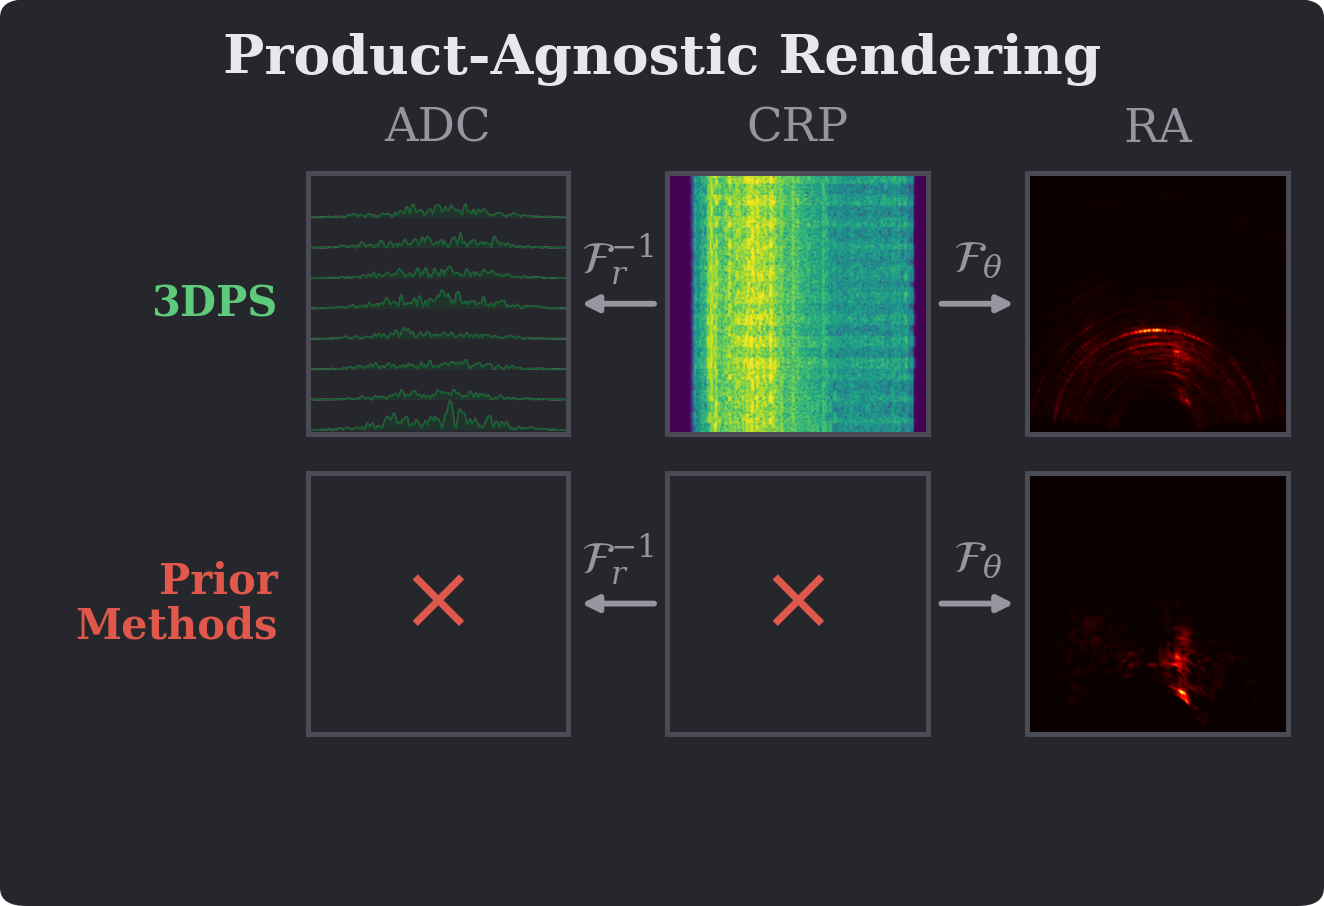
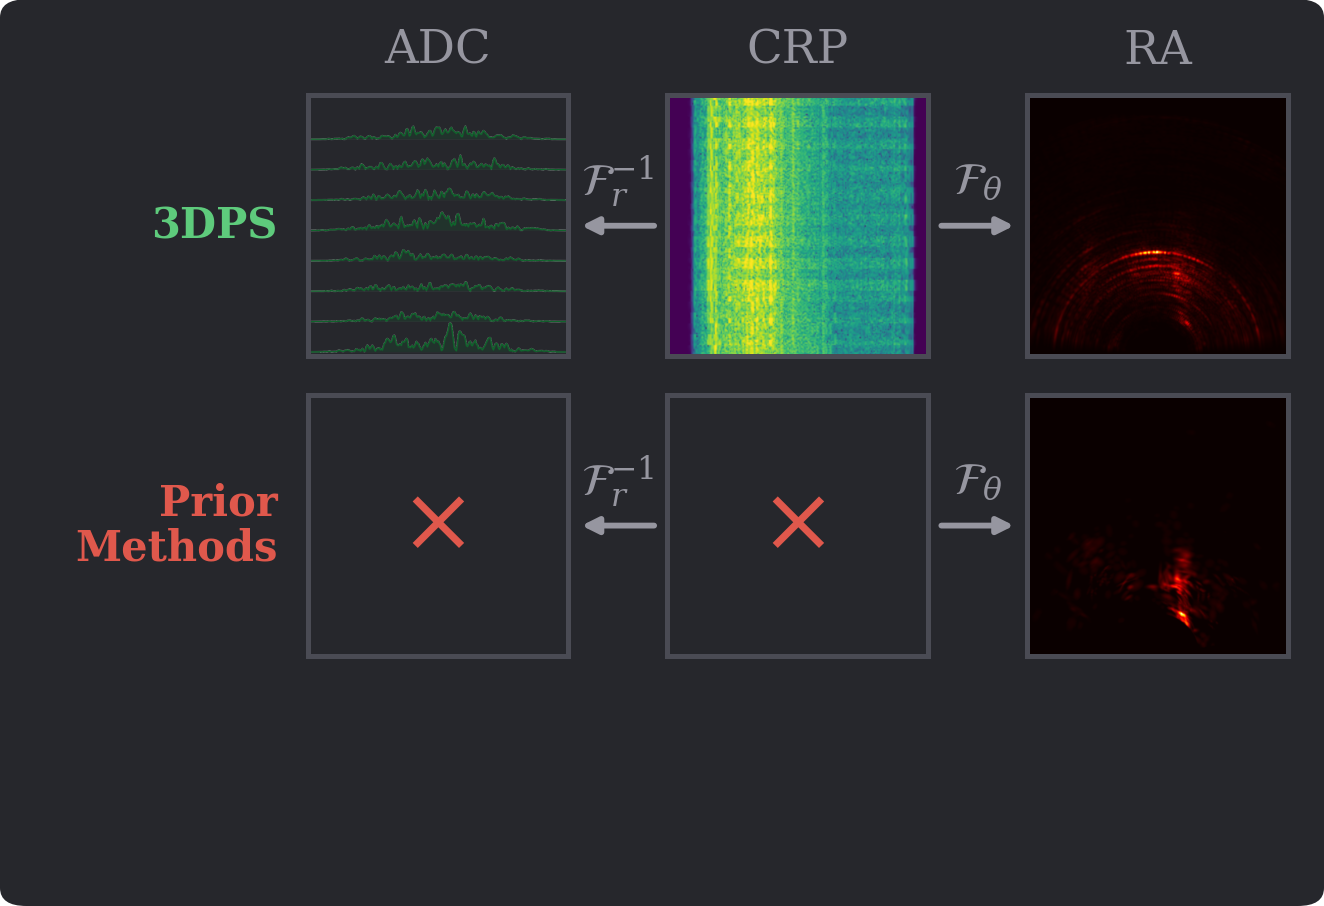
teaser act 2: plot takes the right half, applications the left, bigger figures
1. In act 2 the plot card becomes half the width and centres vertically:
   486 x 355 at x 504..989, aspect 1.37 -- exactly the plot content's
   aspect, so the extra size goes to the plot and not to margin.

2. The 2 x 2 takes the left half (x 11..495, no overlap).

   - Panel titles are live HTML above each tile now, not baked into the
     art. All four panels were regenerated or re-cropped without them,
     and the reclaimed band goes to the figure.
   - Material and normals were sitting inside a 4% pad in a tile whose
     box aspect did not match the cloud, which is where the side margin
     came from. The axes now take 94% x 93% of the panel and the cloud
     fills at 0.90 rather than 1.04.
   - app_nvs is cropped 0.22in lower so the teaser's own column header
     comes off (head_y = top - 0.06, body_top = head_y - 0.16, column
     inset 0.04).
   - The two-tone look was a second card: each .t-app had its own
     background and border BEHIND a panel PNG that already carries one.
     The .t-app card is gone. In dark the panel's #26272c is exactly the
     stage colour, so the tile edge now comes from a hairline plus a
     shadow rather than a different fill -- which also keeps all four
     consistent, since app_nvs is cropped from the paper teaser and
     cannot be re-tinted.

Measured after load: card 486x355 aspect 1.37, vertically centred, apps
11..495, no overlap.

diff --git a/index.html b/index.html
@@ -240,6 +240,9 @@
       gap: var(--t-dock-gap); pointer-events: none;
       transition: opacity .6s ease; z-index: 4; }
     #teaser-anim.apps .t-dock { opacity: 0; }
+    #teaser-anim.apps .t-pareto { width: calc(50% - 1.5 * var(--t-pad));
+      aspect-ratio: 1.37; height: auto; top: 0; bottom: 0; margin-block: auto;
+      max-height: calc(100% - 2 * var(--t-pad)); }
     #teaser-anim .t-slot { margin: 0; --c: var(--t-red); height: 100%; min-height: 0;
                            display: flex; align-items: center; }
     #teaser-anim .t-slot[data-fam="pts"] { --c: var(--t-green); }
@@ -265,7 +268,7 @@
                   border-radius 1s ease, border-width .5s ease; }
     #teaser-anim .t-fly img { width: 100%; height: 100%; object-fit: cover; display: block; }
     #teaser-anim .t-apps { position: absolute; left: var(--t-pad); top: var(--t-pad); bottom: var(--t-pad);
-      right: calc(var(--t-card-w) + 2 * var(--t-pad)); display: grid; z-index: 5;
+      right: calc(50% + 0.5 * var(--t-pad)); display: grid; z-index: 5;
       grid-template-columns: repeat(2, minmax(0, 1fr));
       grid-template-rows: auto repeat(2, minmax(0, 1fr));
       gap: 2.2%; pointer-events: none; }
@@ -275,10 +278,25 @@
       opacity: 0; transform: translateY(8px);
       transition: opacity .5s ease, transform .5s ease; }
     #teaser-anim.apps .t-apps-head { opacity: 1; transform: none; }
-    #teaser-anim .t-app { margin: 0; min-height: 0; display: flex; align-items: center; justify-content: center;
-      opacity: 0; transform: translateY(12px); border-radius: 10px; padding: 1.6%;
-      background: var(--t-card); border: 1px solid var(--t-card-line);
+    #teaser-anim .t-app { margin: 0; min-height: 0; display: flex; flex-direction: column;
+      align-items: center; justify-content: flex-start;
+      opacity: 0; transform: translateY(12px);
       transition: opacity .55s ease, transform .55s ease; }
+    #teaser-anim .t-app figcaption { flex: 0 0 auto; margin: 0 0 1.5%; text-align: center;
+      line-height: 1.12; color: var(--fg);
+      font-family: "Times New Roman", Times, Georgia, serif; font-weight: 700;
+      font-size: clamp(.56rem, 1.05vw, .92rem); }
+    /* bounded by BOTH axes rather than stretched by flex: the panel keeps
+       its own aspect and takes whichever limit binds */
+    /* ONE fill per tile -- the panel's own, baked into the PNG. A second
+       card behind it was the two-tone look. In dark the panel's #26272c
+       equals the stage, so the edge comes from a hairline and a shadow
+       rather than a different fill, which also keeps the four consistent
+       (app_nvs is cropped from the paper teaser and cannot be re-tinted). */
+    #teaser-anim .t-app img { min-height: 0; max-width: 100%; max-height: 100%;
+      width: auto; height: auto; object-fit: contain; border-radius: 9px;
+      border: 1px solid var(--t-card-line);
+      box-shadow: 0 2px 12px rgba(0, 0, 0, .18); }
     #teaser-anim .t-app.on { opacity: 1; transform: none; }
     #teaser-anim .t-app img { max-width: 100%; max-height: 100%; width: auto; height: auto; display: block; }
     #teaser-anim .t-still { display: none; }
@@ -417,18 +435,18 @@
         </div>
         <div class="t-apps" id="t-apps">
         <p class="t-apps-head">Applications</p>
-        <figure class="t-app"><img class="themed"
-          data-light="./static/teaser/light/app_rendering.png?v=2" data-dark="./static/teaser/dark/app_rendering.png?v=2"
-          src="./static/teaser/light/app_rendering.png?v=2" alt="Product-agnostic rendering: ADC, CRP and RA from one fitted scene."></figure>
-        <figure class="t-app"><img class="themed"
-          data-light="./static/teaser/light/app_material.png?v=2" data-dark="./static/teaser/dark/app_material.png?v=2"
-          src="./static/teaser/light/app_material.png?v=2" alt="Material reconstruction: per-point relative permittivity."></figure>
-        <figure class="t-app"><img class="themed"
-          data-light="./static/teaser/light/app_normals.png?v=2" data-dark="./static/teaser/dark/app_normals.png?v=2"
-          src="./static/teaser/light/app_normals.png?v=2" alt="Normal estimation: per-point surface normals."></figure>
-        <figure class="t-app"><img class="themed"
-          data-light="./static/teaser/light/app_nvs.png?v=2" data-dark="./static/teaser/dark/app_nvs.png?v=2"
-          src="./static/teaser/light/app_nvs.png?v=2" alt="Novel view synthesis on held-out frames."></figure>
+        <figure class="t-app"><figcaption>Product-Agnostic Rendering</figcaption><img class="themed"
+          data-light="./static/teaser/light/app_rendering.png?v=3" data-dark="./static/teaser/dark/app_rendering.png?v=3"
+          src="./static/teaser/light/app_rendering.png?v=3" alt="Product-agnostic rendering: ADC, CRP and RA from one fitted scene."></figure>
+        <figure class="t-app"><figcaption>Material Reconstruction</figcaption><img class="themed"
+          data-light="./static/teaser/light/app_material.png?v=3" data-dark="./static/teaser/dark/app_material.png?v=3"
+          src="./static/teaser/light/app_material.png?v=3" alt="Material reconstruction: per-point relative permittivity."></figure>
+        <figure class="t-app"><figcaption>Normal Estimation</figcaption><img class="themed"
+          data-light="./static/teaser/light/app_normals.png?v=3" data-dark="./static/teaser/dark/app_normals.png?v=3"
+          src="./static/teaser/light/app_normals.png?v=3" alt="Normal estimation: per-point surface normals."></figure>
+        <figure class="t-app"><figcaption>Novel View Synthesis</figcaption><img class="themed"
+          data-light="./static/teaser/light/app_nvs.png?v=3" data-dark="./static/teaser/dark/app_nvs.png?v=3"
+          src="./static/teaser/light/app_nvs.png?v=3" alt="Novel view synthesis on held-out frames."></figure>
         </div>
       </div>
       <div class="t-still"><img class="themed"
@@ -798,7 +816,7 @@
 </script>
 
 <script type="module" src="./static/js/viewer.js?v=10"></script>
-<script type="module" src="./static/js/teaser.js?v=17"></script>
+<script type="module" src="./static/js/teaser.js?v=18"></script>
 
 </body>
 </html>

diff --git a/tools/gen_teaser_apps.py b/tools/gen_teaser_apps.py
@@ -74,16 +74,14 @@ def project(p):
     return (v @ right) / zc / half_h, (v @ up) / zc / (half_h / ASPECT), v @ fwd
 
 
-def panel(name, title, colours):
+def panel(name, colours):
     fig = plt.figure(figsize=(W, H), dpi=DPI)
     fig.patch.set_facecolor("none")
     fig.patches.append(FancyBboxPatch(
         (0, 0), 1, 1, boxstyle=f"round,pad=0,rounding_size={R / W}",
         transform=fig.transFigure, facecolor=TILE, edgecolor="none",
         zorder=0, mutation_aspect=W / H))
-    fig.text(0.5, 1 - 0.055 / H, title, ha="center", va="top", fontsize=6.6,
-             fontweight="bold", color=HEAD, zorder=3)
-    ax = fig.add_axes([0.045, 0.045, 0.91, 0.79], zorder=2)
+    ax = fig.add_axes([0.03, 0.035, 0.94, 0.93], zorder=2)
     ax.set_facecolor("none"); ax.axis("off")
     for p, c, s in ((mv, np.tile(MESH, (len(mv), 1)), 0.035),
                     (pos, colours, 0.05)):
@@ -94,9 +92,9 @@ def panel(name, title, colours):
     u, v, d = project(pos)
     k = d > 0.1
     cx, cy = (u[k].min() + u[k].max()) / 2 * ASPECT, (v[k].min() + v[k].max()) / 2
-    hw = np.ptp(u[k]) * ASPECT / 2 * 1.04
-    hh = np.ptp(v[k]) / 2 * 1.04
-    box = (W - 0.09) / (H * 0.79)
+    hw = np.ptp(u[k]) * ASPECT / 2 * 0.90      # fill the tile, not 4% inside it
+    hh = np.ptp(v[k]) / 2 * 0.90
+    box = (W * 0.94) / (H * 0.93)
     if hw / hh < box:
         hw = hh * box
     else:
@@ -112,12 +110,12 @@ def panel(name, title, colours):
           f"{Image.open(p_out).size[1]} px")
 
 
-panel("app_material.png", "Material Reconstruction", mat)
+panel("app_material.png", mat)
 # normals are rgb=(n+1)/2 and so inherently pastel; on the light tile they
 # wash out, the same effect measured in the viewer (median 2.27:1 against
 # the background). Same correction, same factor, hue preserved.
 NRM = nrm * 0.75 if THEME == "light" else nrm
-panel("app_normals.png", "Normal Estimation", NRM)
+panel("app_normals.png", NRM)
 
 
 # ── product-agnostic rendering ───────────────────────────────────────────
@@ -136,8 +134,7 @@ def rendering():
     fig.patches.append(FancyBboxPatch(
         (0, 0), 1, 1, boxstyle=f"round,pad=0,rounding_size={R / W}",
         transform=fig.transFigure, facecolor=TILE, edgecolor="none", zorder=0))
-    fig.text(0.5, 1 - 0.055 / H, "Product-Agnostic Rendering", ha="center",
-             va="top", fontsize=6.6, fontweight="bold", color=HEAD, zorder=3)
+
     # The label column is sized from the MEASURED width of "Methods" --
     # guessing it cost two rounds of clipping. Everything left over, minus
     # the two arrow gaps, goes to the three cells.
@@ -150,7 +147,7 @@ def rendering():
     LW = LAB_W + 0.055 + MG
     cw = (W - 2 * MG - LW - 2 * AW) / 3.0
     ch = cw                                   # the sources are square
-    hdr_y = H - 0.055 - 0.085 - 0.075
+    hdr_y = H - 0.085
     top = hdr_y - 0.075
     y1 = top - ch                             # row 1 (3DPS)
     y0 = y1 - GAP - ch                        # row 2 (prior methods)

diff --git a/tools/gen_teaser_tiles.py b/tools/gen_teaser_tiles.py
@@ -78,8 +78,13 @@ for i, key in enumerate(("mc", "inr", "pts")):
 # Only NVS is cropped now. Product-agnostic rendering is REBUILT by
 # gen_teaser_apps.py (two rows instead of three, bigger cells), so cropping
 # it here would overwrite that.
+# Crop BELOW the column's own header: _draw_nvs_column puts its title at
+# the column top (head_y = top - 0.06, body_top = head_y - 0.16, and the
+# column is inset 0.04 inside the crop), so 0.22 in off the top drops it.
+# The animated teaser sets these titles in HTML instead.
+NVS_HEAD = 0.22
 for i, name in ((2, "app_nvs.png"),):
-    rows.append(crop(XS[i], BODY_BOT, TW, COL_TOP - BODY_BOT, name))
+    rows.append(crop(XS[i], BODY_BOT, TW, COL_TOP - BODY_BOT - NVS_HEAD, name))
 
 for x0, y0, x1, y1, name in rows:
     print(f"  {name:<20s} {x1 - x0:4d} x {y1 - y0:4d} px   "
